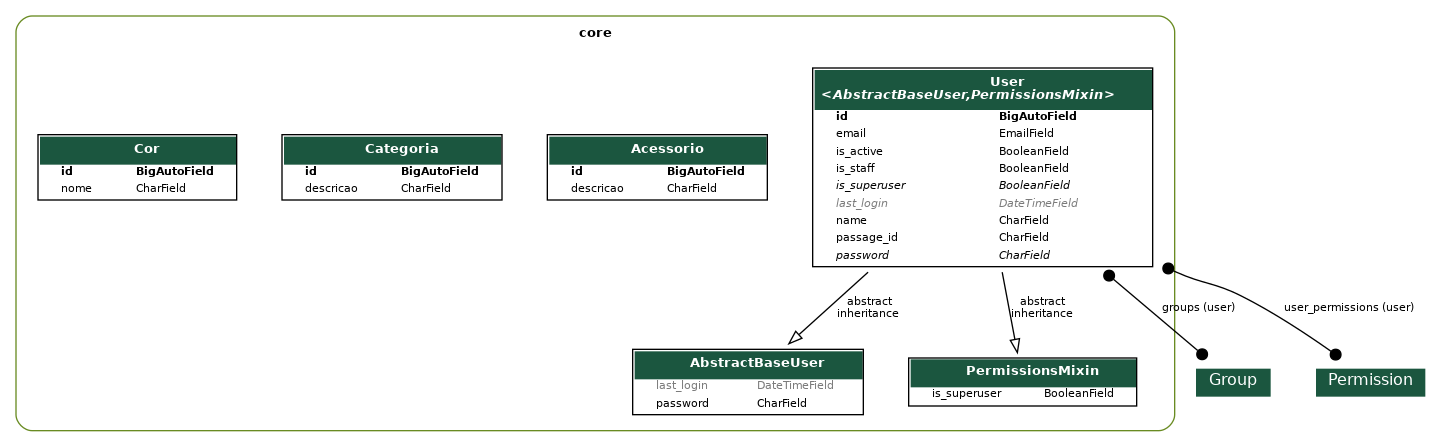
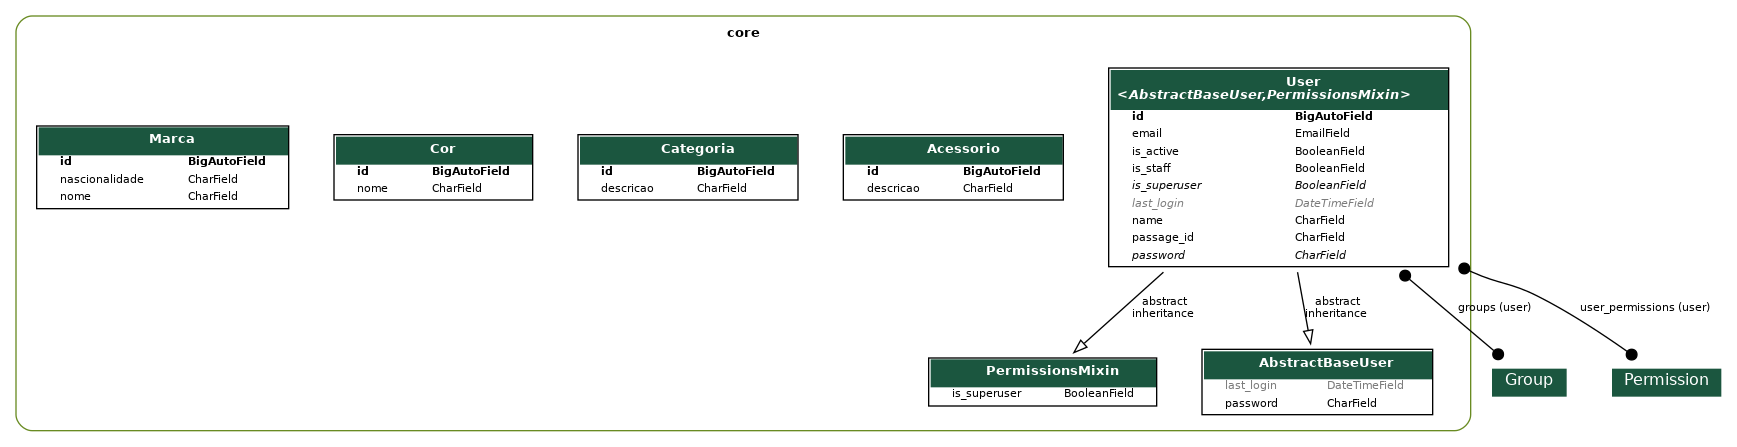
criação da tabela marca

diff --git a/app/urls.py b/app/urls.py
@@ -9,7 +9,7 @@ from drf_spectacular.views import (
 from rest_framework.routers import DefaultRouter
 from rest_framework_simplejwt.views import TokenObtainPairView, TokenRefreshView
 
-from core.views import  AcessorioViewSet, CategoriaViewSet, CorViewSet, UserViewSet
+from core.views import  AcessorioViewSet, CategoriaViewSet, CorViewSet, MarcaViewSet, UserViewSet
 
 router = DefaultRouter()
 
@@ -17,7 +17,7 @@ router.register(r"usuarios", UserViewSet, basename="usuarios")
 router.register(r"acessorios", AcessorioViewSet, basename="acessorios")
 router.register(r"categorias", CategoriaViewSet, basename="categorias")
 router.register(r"cores", CorViewSet, basename="cores")
-
+router.register(r"marcas", MarcaViewSet, basename="marcas")
 
 urlpatterns = [
     path("admin/", admin.site.urls),

diff --git a/core/migrations/0005_marca.py b/core/migrations/0005_marca.py
@@ -1,0 +1,25 @@
+# Generated by Django 5.0.6 on 2024-07-12 18:02
+
+from django.db import migrations, models
+
+
+class Migration(migrations.Migration):
+
+    dependencies = [
+        ("core", "0004_cor"),
+    ]
+
+    operations = [
+        migrations.CreateModel(
+            name="Marca",
+            fields=[
+                ("id", models.BigAutoField(auto_created=True, primary_key=True, serialize=False, verbose_name="ID")),
+                ("nome", models.CharField(max_length=50)),
+                ("nascionalidade", models.CharField(max_length=50, null=True)),
+            ],
+            options={
+                "verbose_name": "Marca",
+                "verbose_name_plural": "Marcas",
+            },
+        ),
+    ]

diff --git a/core/models/marca.py b/core/models/marca.py
@@ -1,0 +1,13 @@
+from django.db import models
+
+
+class Marca(models.Model):
+    nome = models.CharField(max_length=50)
+    nascionalidade = models.CharField(max_length=50, null=True);
+
+    def __str__(self):
+        return f"{self.nome.upper()} ({self.id}) ({self.nascionalidade})"
+    
+    class Meta:
+        verbose_name = "Marca"
+        verbose_name_plural = "Marcas"

diff --git a/core/views/marca.py b/core/views/marca.py
@@ -1,0 +1,9 @@
+from rest_framework.viewsets import ModelViewSet
+
+from core.models import Marca
+from core.serializers import MarcaSerializer
+
+
+class MarcaViewSet(ModelViewSet):
+    queryset = Marca.objects.order_by("id")
+    serializer_class = MarcaSerializer

diff --git a/core/serializers/marca.py b/core/serializers/marca.py
@@ -1,0 +1,9 @@
+from rest_framework.serializers import ModelSerializer
+
+from core.models import Marca
+
+
+class MarcaSerializer(ModelSerializer):
+    class Meta:
+        model = Marca
+        fields = "__all__"

diff --git a/core/admin.py b/core/admin.py
@@ -54,3 +54,5 @@ admin.site.register(models.User, UserAdmin)
 admin.site.register(models.Acessorio)
 admin.site.register(models.Categoria)
 admin.site.register(models.Cor)
+admin.site.register(models.Marca)
+

diff --git a/core/serializers/__init__.py b/core/serializers/__init__.py
@@ -2,3 +2,4 @@ from .user import UserSerializer
 from .acessorio import AcessorioSerializer
 from .categoria import CategoriaSerializer
 from .cor import CorSerializer
+from . marca import MarcaSerializer

diff --git a/core/views/__init__.py b/core/views/__init__.py
@@ -2,3 +2,4 @@ from .user import UserViewSet
 from .acessorio import AcessorioViewSet
 from .categoria import CategoriaViewSet
 from .cor import CorViewSet
+from . marca import MarcaViewSet

diff --git a/core/models/__init__.py b/core/models/__init__.py
@@ -2,3 +2,4 @@ from .user import User
 from .acessorio import Acessorio
 from .categoria import Categoria
 from .cor import Cor
+from .marca import Marca
